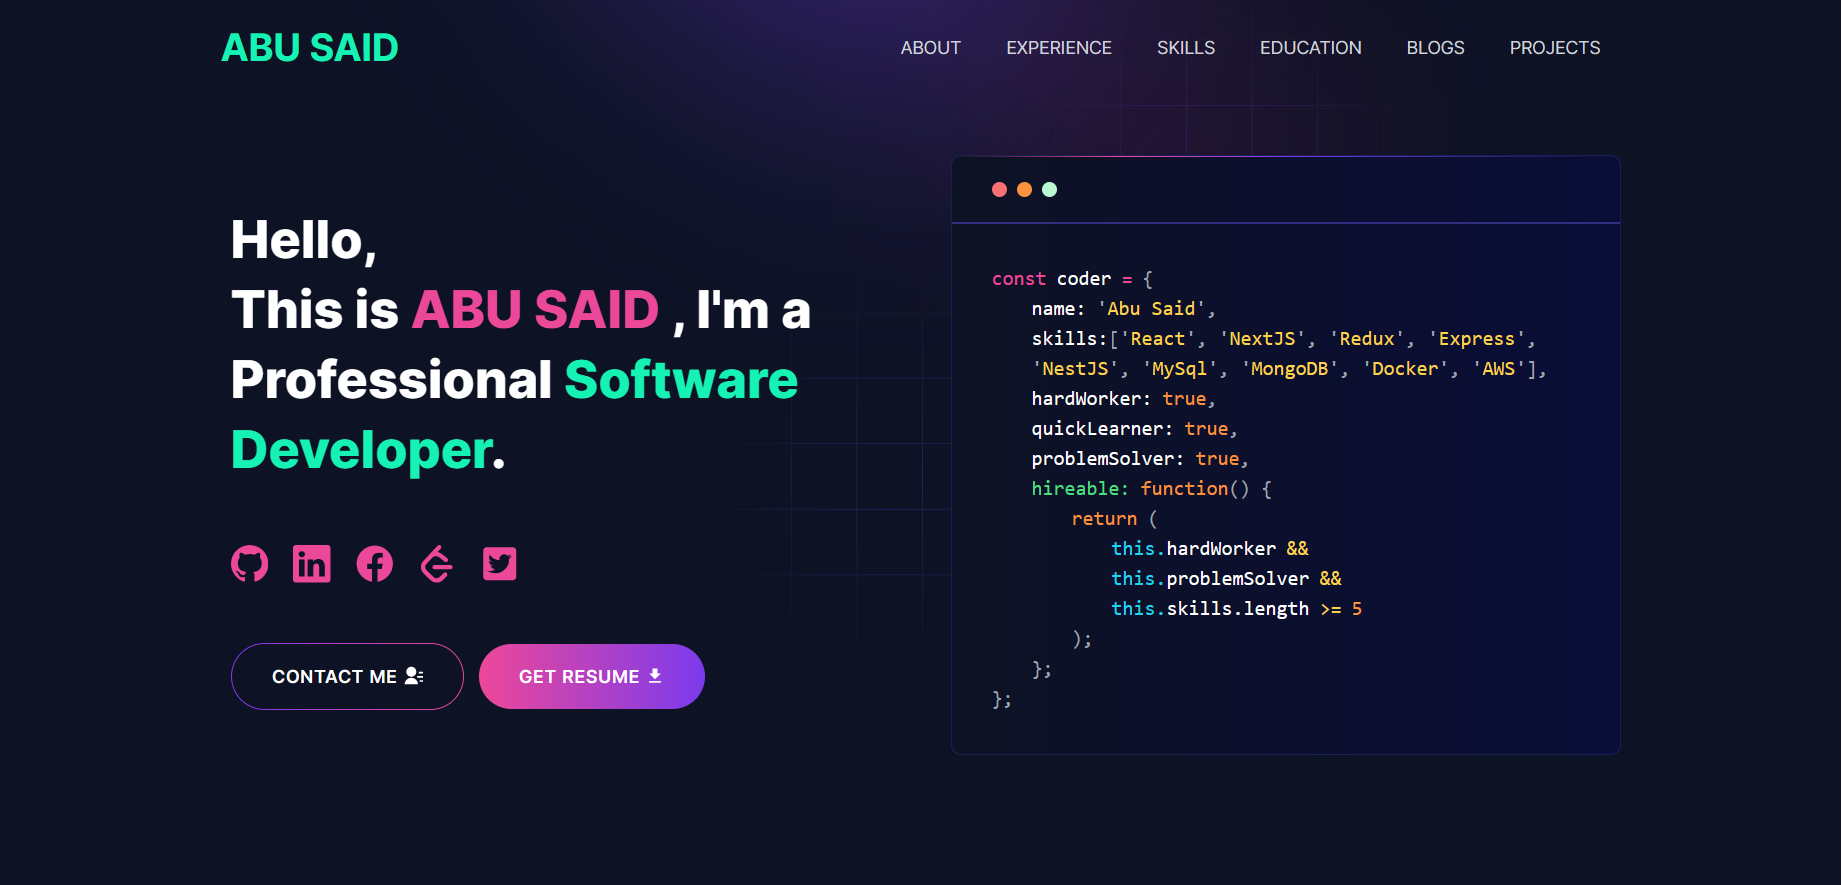
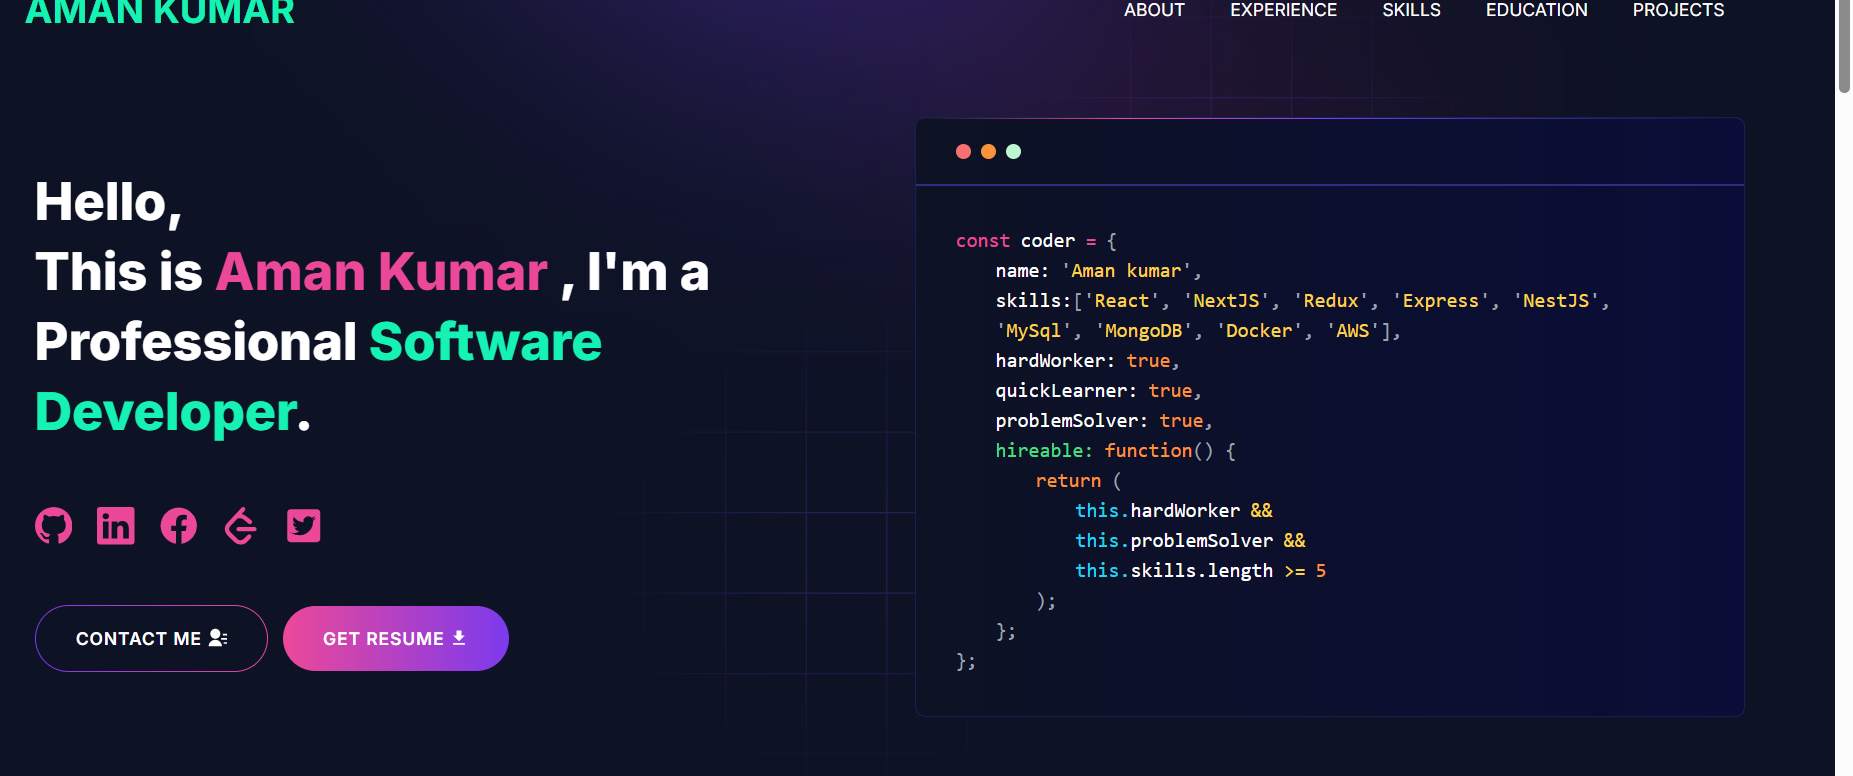
Updated profile picture and other assets

diff --git a/utils/data/projects-data.js b/utils/data/projects-data.js
@@ -1,11 +1,11 @@
 export const projectsData = [
     {
         id: 1,
-        name: 'Chat Application',
-        description: "Built a real-time chat application using React for the frontend, Node.js for the backend, and MongoDB for data storage. Implemented socket.io for seamless real-time communication between users.",
-        tools: ['React', 'Node.js', 'MongoDB', 'Socket.io', 'Express'],
+        name: 'Food Delivery Website',
+        description: 'Built a food delivery platform using React and Node.js. Integrated MySQL for database management, enabled role-based authentication, and added payment gateway integration.',
+        tools: ['React', 'Node.js', 'MySQL', 'Express', 'Bootstrap'],
         role: 'Full Stack Developer',
-        code: 'https://github.com/aman/chat-app',
+        code: 'https://github.com/aman/food-delivery',
         demo: '',
     },
     {
@@ -17,13 +17,15 @@ export const projectsData = [
         code: 'https://github.com/aman/ecommerce-app',
         demo: '',
     },
+
     {
+        
         id: 3,
-        name: 'Food Delivery Website',
-        description: 'Built a food delivery platform using React and Node.js. Integrated MySQL for database management, enabled role-based authentication, and added payment gateway integration.',
-        tools: ['React', 'Node.js', 'MySQL', 'Express', 'Bootstrap'],
+        name: 'Chat Application',
+        description: "Built a real-time chat application using React for the frontend, Node.js for the backend, and MongoDB for data storage. Implemented socket.io for seamless real-time communication between users.",
+        tools: ['React', 'Node.js', 'MongoDB', 'Socket.io', 'Express'],
         role: 'Full Stack Developer',
-        code: 'https://github.com/aman/food-delivery',
+        code: 'https://github.com/aman/chat-app',
         demo: '',
     },
     {

diff --git a/utils/data/personal-data.js b/utils/data/personal-data.js
@@ -13,5 +13,5 @@ export const personalData = {
   stackOverflow: 'upcoming',
   leetcode: "https://leetcode.com/u/Aman7562/",
   devUsername: "Aman-srivastava1608",
-  resume: "https://docs.google.com/document/d/1jhGVWfh4NisCcZlglMRwL8b5zpJ2F2LM/edit?usp=drive_link&ouid=118349997354315840494&rtpof=true&sd=true"
+  resume: "https://docs.google.com/document/d/1jhGVWfh4NisCcZlglMRwL8b5zpJ2F2LM/edit?usp=sharing&ouid=118349997354315840494&rtpof=true&sd=true"
 }
